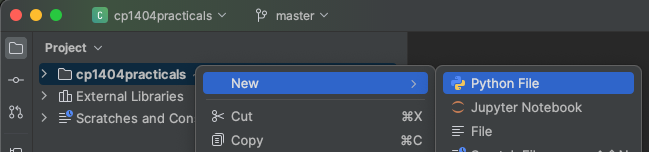
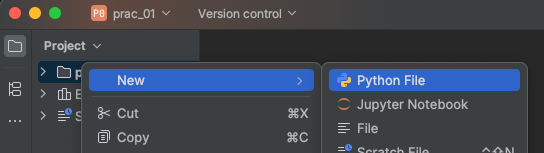
Add note about Full Line completion, improve images

diff --git a/prac_01/README.md b/prac_01/README.md
@@ -25,7 +25,7 @@ program run... but it's more than that.
 **Always do your coding in files that are part of a project - NOT just
 individual files you open.**
 
-For this week, we will just make a project and work on a few files.  
+For this week, we will just make a project called `prac_01` and work on a few files.  
 Next week, we will learn to use version control with Git, and we will make a new project for your practicals. 
 
 
@@ -38,8 +38,8 @@ Next week, we will learn to use version control with Git, and we will make a new
 
     - the **location** can be changed to any place you have access to. Use a folder that you will be able to find later
 
-    - the **interpreter** is the version of Python we need to run our code on the computer.  
-      Select *"Custom environment"* and *"Select existing*" for Python 3.  
+    - the **interpreter** is the version of Python used to run our code.  
+      Select *"Custom environment"* and *"Select existing"* for Python 3.  
 
    ![New project window - select existing interpreter](../images/PyCharm-Project-Custom-Environment.png)
 
@@ -70,30 +70,25 @@ Next week, we will learn to use version control with Git, and we will make a new
 
 In the next example, we will write a program that can convert between Celsius and Fahrenheit temperatures.
 
-1. If you don't have your first prac folder (directory) yet, create
-   one called `prac_01` and drag your `hello.py` file into it...
-
-2. Right-click on your prac_01 folder and create a
+1. Right-click on your project folder and create a
    new Python file here called `temperatures.py`
    Copy the raw version of the code found at the link below and paste
    into your file...  
    Click on the link below, then click the Raw button to get a version
    suitable for copying.  
-   ![Raw in GitHub](../images/01image4.png)  
+   ![Raw in GitHub](../images/GitHub-Raw.png)  
    Don't just copy from the normal view without clicking Raw, or you
    will *not* get proper formatting. OK?
 
    Download or copy [temperatures.py](temperatures.py)  
    This file is hosted on GitHub in our subject's practicals "repository"
    (or "repo" for short).  
-   Bookmark the top level of this repo as we will be
-   using it throughout the subject.
 
-3. **Run** this program by right-clicking in the code window and
+2. **Run** this program by right-clicking in the code window and
    choosing **run**. Try converting a couple of Celsius values to
    Fahrenheit.
 
-4. Now complete the `TODO`. Replace `pass` with your
+3. Now complete the `TODO`. Replace `pass` with your
    code to do the opposite temperature conversion (F to C). Test your code.
 
 ## Productivity Tips
@@ -101,20 +96,17 @@ In the next example, we will write a program that can convert between Celsius an
 Good programmers (that's you!) don't waste time. Here are some
 important tips to save you time...
 
-- As you are typing code, notice that PyCharm is trying to
-  help you with suggestions and highlights.
+- As you are typing code, notice PyCharm's suggestions and highlights.
 
 - As you type in the name of an existing identifier, PyCharm will show you a list of matching names that
-  you can select from by simply pressing ENTER  
-  *Don't use your mouse to click on these. Shortcuts aren't shortcuts
-  if you use them the long way!*
+  you can select from by simply pressing ENTER.  
+  *Don't use your mouse to click on these. Shortcuts aren't shortcuts if you use them the long way!*
 
 - The more you type in, the more specific the list becomes  
-  ![Autocomplete identifier names](../images/01image5.png)
+  ![Autocomplete identifier names](../images/PyCharm-Autocomplete.png)
 
 - Notice also that PyCharm colours different parts of the code to help
-  you understand what they are - variables in black, functions in
-  blue, etc.
+  you understand what they are - variables, literals, comments, etc.
 
 - You may also notice that the `# TODO` comment is special. PyCharm
   knows you want to come back to this. You can list all of your TODOs
@@ -129,6 +121,25 @@ important tips to save you time...
 
 - Please make use of PyCharm's useful support features so that you can work better and faster. It's not cheating; it's
   good practice!
+
+> [!WARNING]
+> We love being productive, and we don't want you to waste time, BUT...  
+> We're not here trying to get through this work as quickly as possible. What we really want is to learn.  
+> With this in mind, we are purposely choosing NOT to use AI in this subject at all.  
+> So, turn off PyCharm's very handy AI autocompletion now.
+
+Open the settings:  
+File (or PyCharm on Mac) > Settings > Editor > General > Inline Completion  
+Untick "Enable local Full Line completion suggestions"
+
+![PyCharm full line completion settings](../images/PyCharm-Inline-Completion.png)
+
+Here's a quick story to help illustrate the point.  
+Lindsay was working with a student in a prac recently whose code had some problems.  
+He asked the student why they had chosen to implement the code that way, and the student replied:  
+*"Not gonna lie, I just pressed Tab multiple times."*  
+If you want to finish the job quickly, get AI to do it... but learn very little.  
+If you want to learn and build your own skills, don't use AI and choose to learn all you can.
 
 While we're thinking about being more productive...  
 A good way to organise your workspace is to put these instructions on
